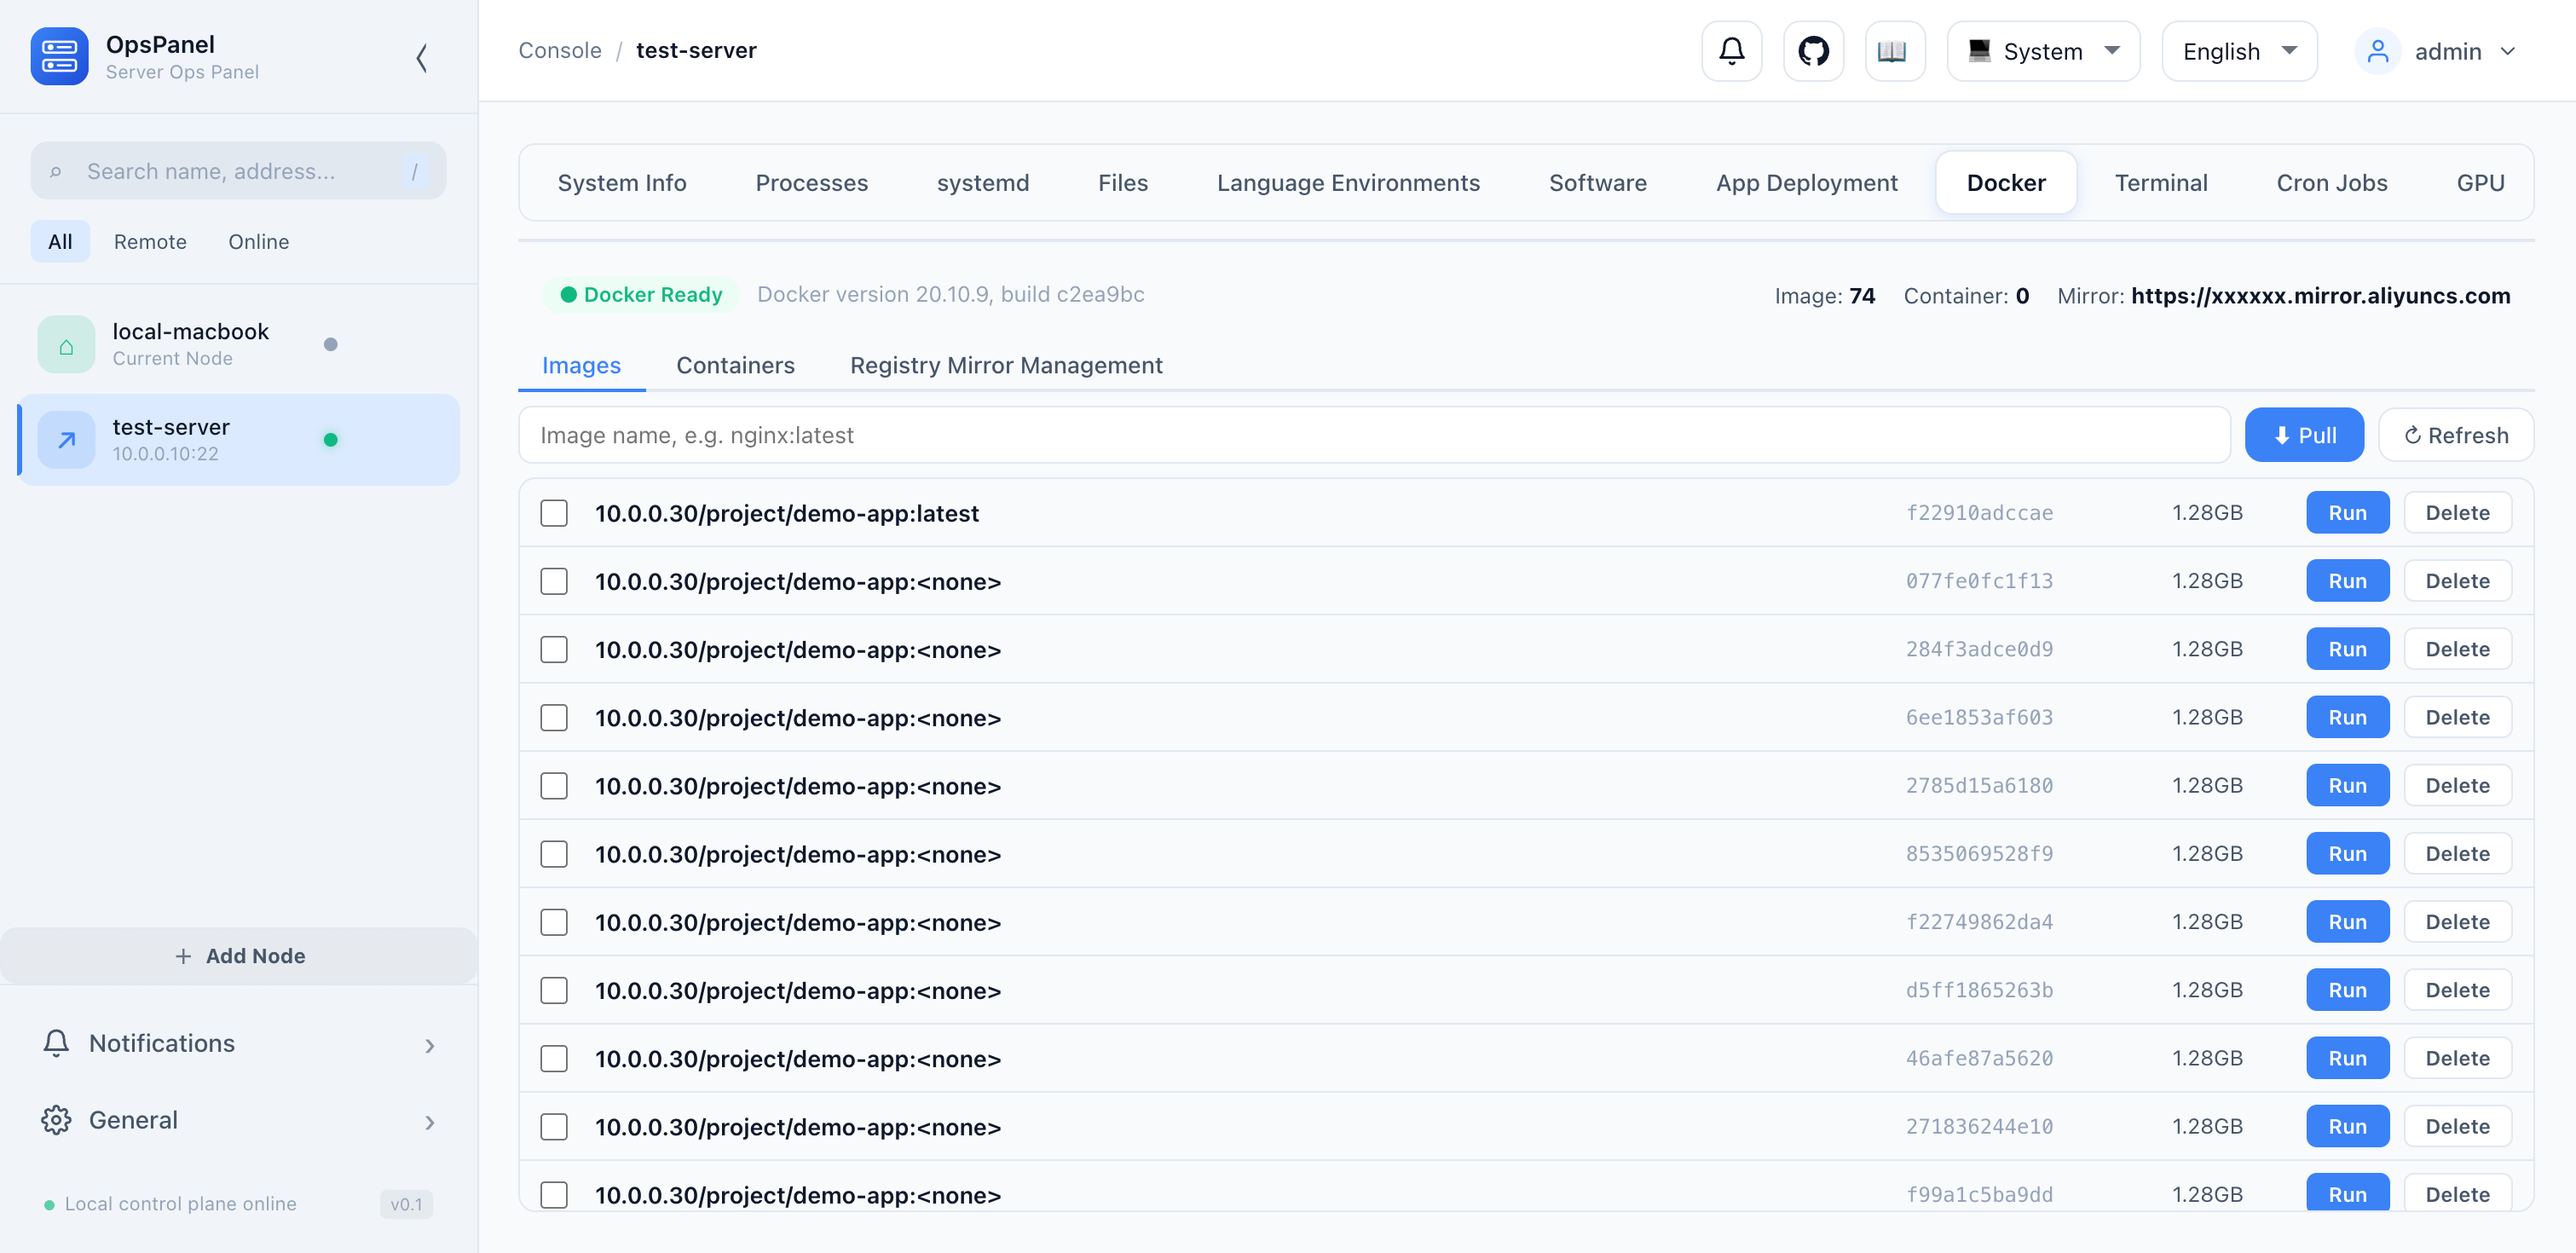
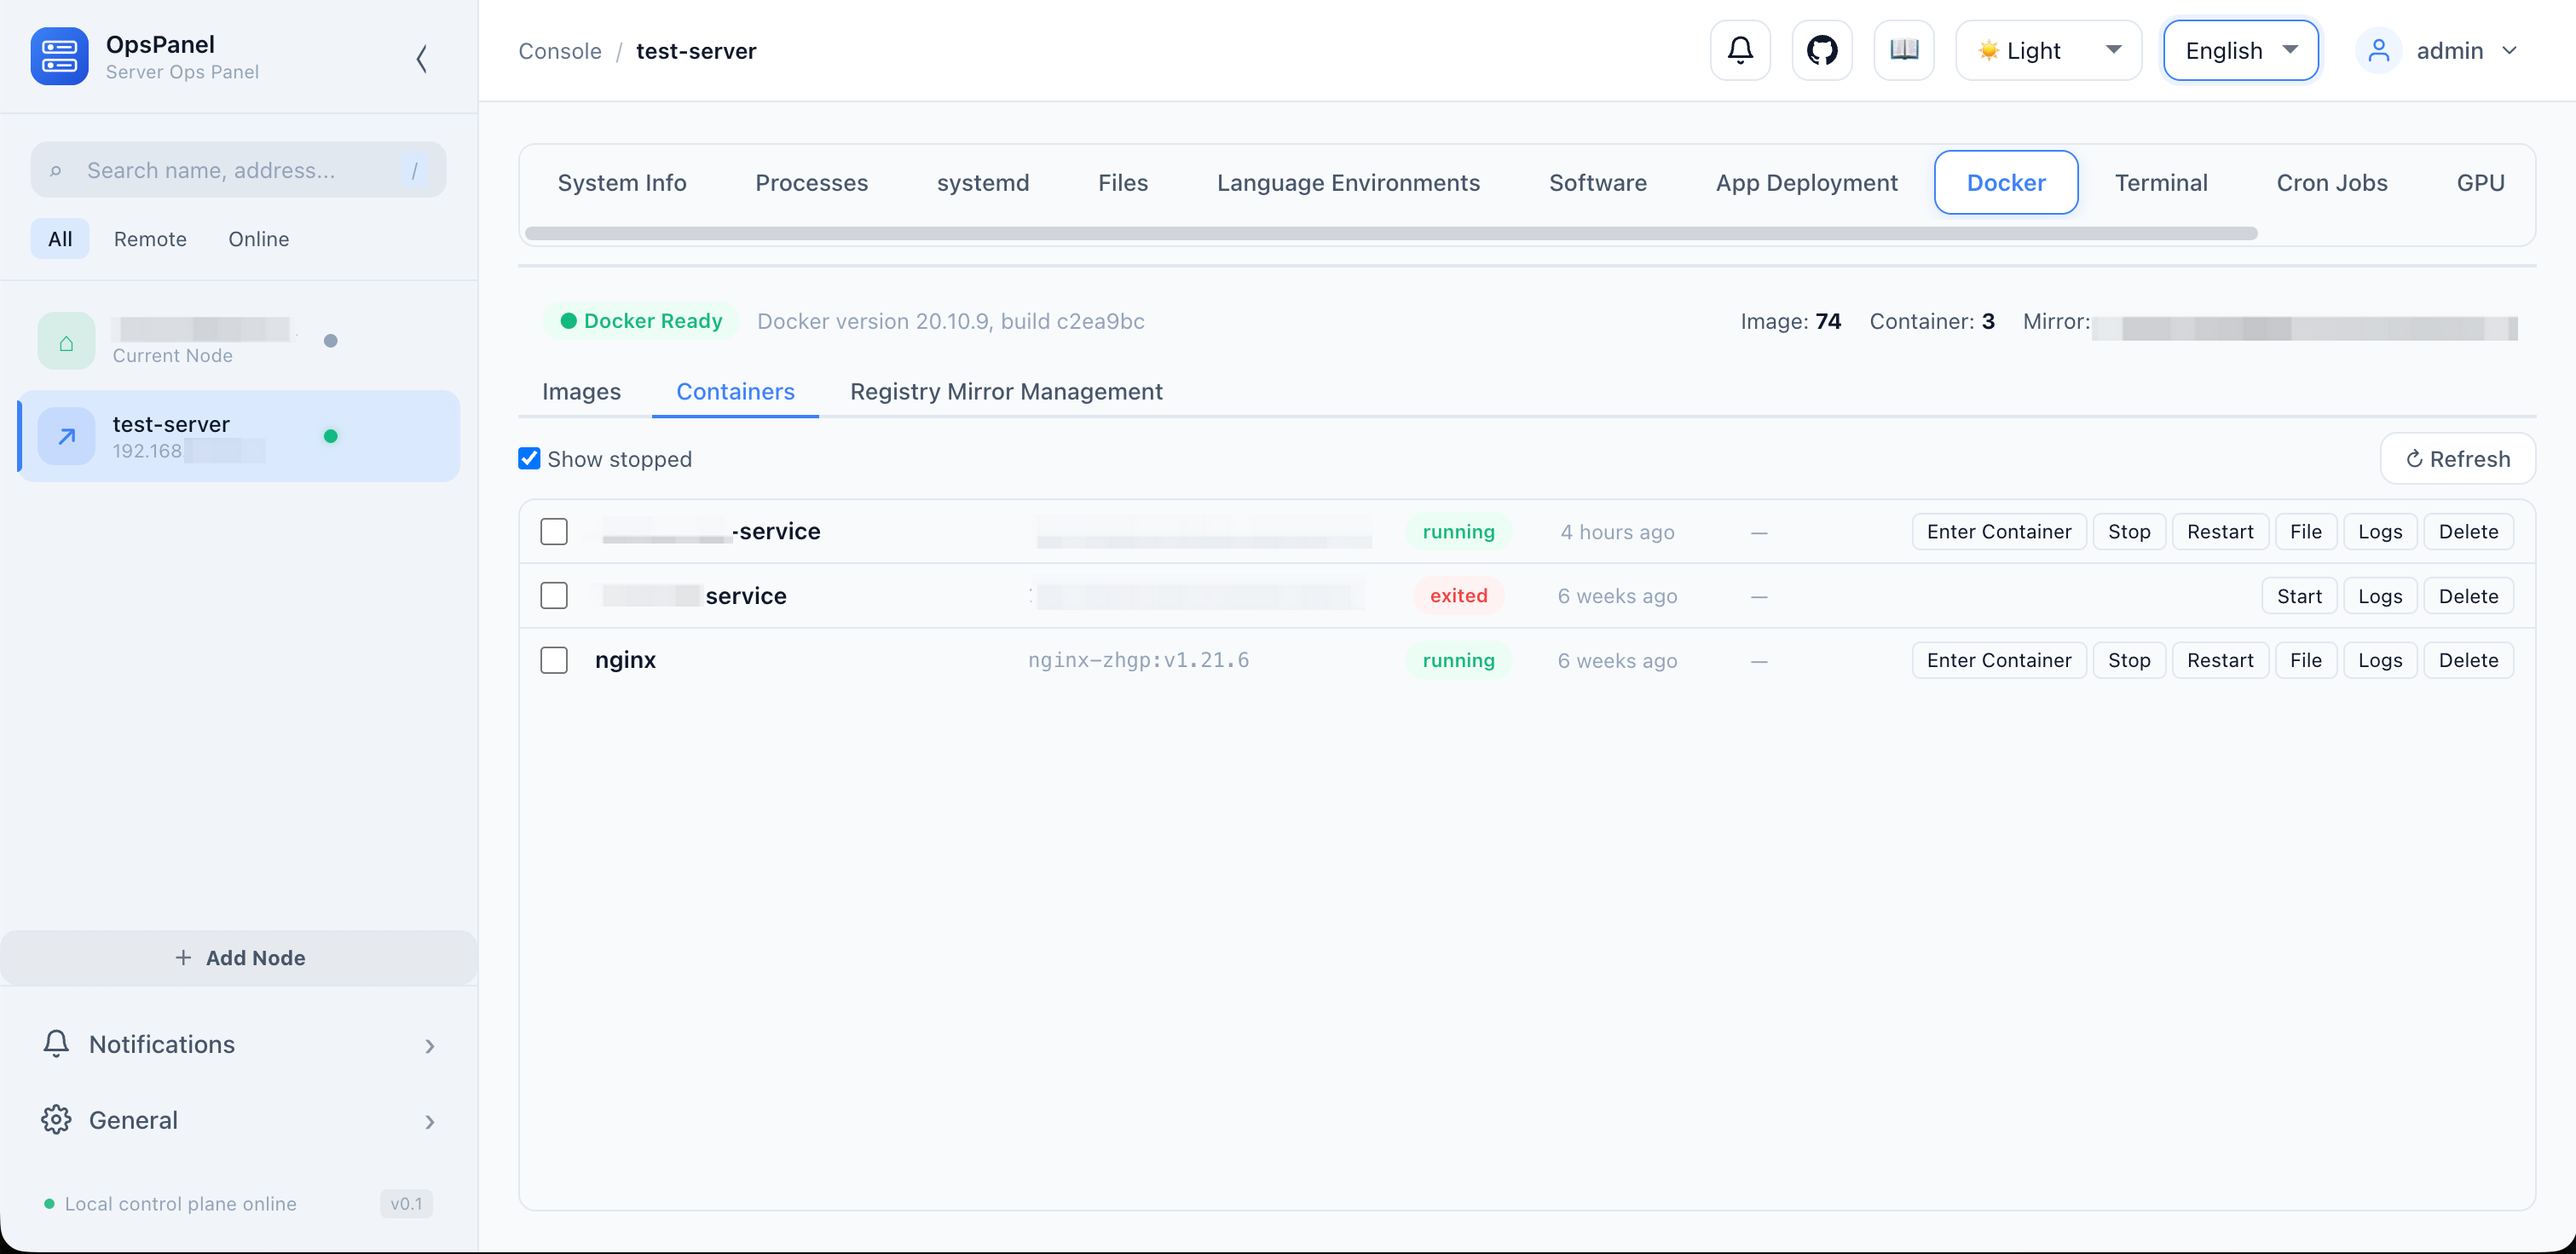
feat: 为 Docker 镜像和容器列表添加全选功能及样式优化

diff --git a/web/static/js/views/tabs/tab-docker.js b/web/static/js/views/tabs/tab-docker.js
@@ -26,8 +26,8 @@ export const TabDocker = {
                     <!-- 镜像管理 -->
                     <div v-if="dockerSubTab === 'images'" class="docker-sub-pane">
                         <div class="docker-toolbar">
-                            <input v-model="dockerPullInput" :placeholder="t('输入镜像名，如：nginx:latest')" @keyup.enter="dockerPullImage(dockerPullInput); dockerPullInput = ''">
-                            <button class="primary-button small" @click="dockerPullImage(dockerPullInput); dockerPullInput = ''">{{ t('⬇ 拉取') }}</button>
+                            <input v-model="dockerPullInput" :placeholder="t('输入镜像名，如：nginx:latest')" @keyup.enter="dockerPullImage()">
+                            <button class="primary-button small" @click="dockerPullImage()">{{ t('⬇ 拉取') }}</button>
                             <button class="toolbar-button" @click="loadDockerImages()" :disabled="dockerLoading">{{ t('↻ 刷新') }}</button>
                         </div>
                         <!-- 批量操作栏 -->
@@ -41,6 +41,13 @@ export const TabDocker = {
                             <span class="empty-icon">⌁</span><strong>{{ t('暂无镜像') }}</strong>
                         </div>
                         <div v-else class="docker-image-list">
+                            <div class="docker-list-header image">
+                                <input type="checkbox" class="batch-check" :checked="allImagesSelected" @change="toggleAllImages()" :title="t('全选')">
+                                <span>{{ t('名称') }}</span>
+                                <span>{{ t('ID') }}</span>
+                                <span class="docker-img-size">{{ t('大小') }}</span>
+                                <span class="docker-img-actions">{{ t('操作') }}</span>
+                            </div>
                             <div v-for="img in dockerImages" :key="img.id" class="docker-image-row" :class="{ selected: selectedImages.includes(img.id) }">
                                 <input type="checkbox" class="batch-check" :checked="selectedImages.includes(img.id)" @change="toggleImageSelection(img.id)">
                                 <span class="docker-img-repo">{{ img.repository }}:{{ img.tag }}</span>
@@ -75,6 +82,15 @@ export const TabDocker = {
                             <span class="empty-icon">⌁</span><strong>{{ t('暂无容器') }}</strong>
                         </div>
                         <div v-else class="docker-container-list">
+                            <div class="docker-list-header container">
+                                <input type="checkbox" class="batch-check" :checked="allContainersSelected" @change="toggleAllContainers()" :title="t('全选')">
+                                <span>{{ t('名称') }}</span>
+                                <span>{{ t('镜像') }}</span>
+                                <span class="docker-ctr-status">{{ t('状态') }}</span>
+                                <span class="docker-ctr-time">{{ t('运行时长') }}</span>
+                                <span class="docker-ctr-ports">{{ t('端口') }}</span>
+                                <span class="docker-ctr-actions">{{ t('操作') }}</span>
+                            </div>
                             <div v-for="c in dockerContainers" :key="c.id" class="docker-container-row" :class="{ selected: selectedContainers.includes(c.id) }">
                                 <input type="checkbox" class="batch-check" :checked="selectedContainers.includes(c.id)" @change="toggleContainerSelection(c.id)">
                                 <span class="docker-ctr-name">{{ c.names || c.id.substring(0, 12) }}</span>
@@ -104,7 +120,7 @@ export const TabDocker = {
                         </div>
                     </div>
                     <!-- 镜像源管理 -->
-                    <div v-if="dockerSubTab === 'mirror'" class="docker-sub-pane">
+                    <div v-if="dockerSubTab === 'mirror'" class="docker-sub-pane docker-sub-pane-scroll">
                         <!-- 服务器当前镜像源 -->
                         <div class="mirror-server-panel" v-if="selectedServer !== 'srv_local'">
                             <div class="mirror-section-header">

diff --git a/web/static/js/store/docker.js b/web/static/js/store/docker.js
@@ -16,7 +16,7 @@ import {
     batchDeleteDockerImages, batchDockerContainerAction,
 } from '../api/docker.js';
 
-const { ref, reactive } = window.Vue;
+const { ref, reactive, computed } = window.Vue;
 
 export function setupDocker(ctx) {
     // ─── Docker 管理 ───
@@ -104,10 +104,23 @@ export function setupDocker(ctx) {
         }
     }
 
-    async function dockerPullImage(image) {
+    // Docker 镜像 reference 格式：[host[:port]/]repo[/repo...][:tag][@digest]
+    const imageRefPattern = /^(?:(?:localhost|[a-zA-Z0-9](?:[a-zA-Z0-9-]*[a-zA-Z0-9])?(?:\.[a-zA-Z0-9](?:[a-zA-Z0-9-]*[a-zA-Z0-9])?)+)(?::\d{1,5})?\/)?[a-z0-9](?:[a-z0-9._-]*[a-z0-9])?(?:\/[a-z0-9](?:[a-z0-9._-]*[a-z0-9])?)*(?::[\w][\w.-]{0,127})?(?:@[A-Za-z][A-Za-z0-9]*(?:[-_+.][A-Za-z][A-Za-z0-9]*)*:[0-9a-fA-F]{32,})?$/;
+
+    async function dockerPullImage() {
         if (!ctx.selectedServer.value) return;
+        const image = dockerPullInput.value.trim();
+        if (!image) {
+            ctx.toastNotify(t('请输入镜像名'), true);
+            return;
+        }
+        if (!imageRefPattern.test(image)) {
+            ctx.toastNotify(t('镜像名格式不正确，如：nginx:latest'), true);
+            return;
+        }
         try {
             await pullDockerImage(ctx.selectedServer.value, image);
+            dockerPullInput.value = '';
             ctx.toastNotify(t('正在拉取镜像: ') + image);
             setTimeout(() => loadDockerImages(), 5000);
         } catch (err) {
@@ -311,6 +324,20 @@ export function setupDocker(ctx) {
         else selectedContainers.value.push(id);
     }
 
+    const allImagesSelected = computed(() =>
+        dockerImages.value.length > 0 && selectedImages.value.length === dockerImages.value.length);
+
+    function toggleAllImages() {
+        selectedImages.value = allImagesSelected.value ? [] : dockerImages.value.map(img => img.id);
+    }
+
+    const allContainersSelected = computed(() =>
+        dockerContainers.value.length > 0 && selectedContainers.value.length === dockerContainers.value.length);
+
+    function toggleAllContainers() {
+        selectedContainers.value = allContainersSelected.value ? [] : dockerContainers.value.map(c => c.id);
+    }
+
     async function batchDeleteImages() {
         if (!selectedImages.value.length) { ctx.toastNotify(t('请选择要删除的镜像'), true); return; }
         if (!await ctx.confirmDialog(t('确定删除选中的 {p1} 个镜像吗？', { p1: selectedImages.value.length }), { title: t('批量删除镜像'), confirmText: t('删除') })) return;
@@ -360,5 +387,6 @@ export function setupDocker(ctx) {
         dockerPullImage, dockerRemoveImage, dockerContainerAction,
         dockerRemoveContainer, dockerViewLogs,
         toggleImageSelection, toggleContainerSelection, batchDeleteImages, batchContainerAction,
+        allImagesSelected, toggleAllImages, allContainersSelected, toggleAllContainers,
     });
 }

diff --git a/web/static/css/components/docker.css b/web/static/css/components/docker.css
@@ -127,6 +127,42 @@
        这样各行（独立 grid）的列分割点始终一致 */
     overflow-x: auto;
     overflow-y: hidden;
+    /* 内滚容器滚动条细化，与 .content 一致 */
+    scrollbar-width: thin;
+    scrollbar-color: #d1d5db transparent;
+}
+
+.docker-image-list::-webkit-scrollbar,
+.docker-container-list::-webkit-scrollbar { width: 6px; height: 6px; }
+
+.docker-image-list::-webkit-scrollbar-thumb,
+.docker-container-list::-webkit-scrollbar-thumb { background: #d1d5db; border-radius: 3px; }
+
+/* 列表表头：与数据行共用同一 grid 模板，逐列对齐 */
+.docker-list-header {
+    display: grid;
+    align-items: center;
+    gap: 8px;
+    padding: 7px 12px;
+    background: var(--content-bg, #f8fafc);
+    font-size: 0.72rem;
+    font-weight: 600;
+    color: var(--text-muted, #64748b);
+    min-width: fit-content;
+}
+
+.docker-list-header.image {
+    grid-template-columns: 24px minmax(160px, 2fr) 110px 80px 150px;
+}
+
+.docker-list-header.container {
+    grid-template-columns: 24px minmax(140px, 2fr) minmax(200px, 1fr) 90px 80px 70px 400px;
+}
+
+/* 表头中复用的行内对齐类去掉装饰性 padding */
+.docker-list-header .docker-ctr-status {
+    padding: 0;
+    border-radius: 0;
 }
 
 .docker-image-row,
@@ -186,18 +222,21 @@
     gap: 8px;
 }
 
-/* 镜像行内中文操作按钮（部署 / 删除） */
+/* 镜像行内中文操作按钮（部署 / 删除）：ghost 风格，与容器行 .ctr-btn 同语言，
+   避免长列表中大量实心蓝按钮造成的视觉噪音 */
 .docker-row-btn {
-    padding: 4px 12px;
+    height: 24px;
+    padding: 0 10px;
     border-radius: 6px;
-    border: 1px solid var(--card-border, #cbd5e1);
-    background: var(--card-bg, #fff);
+    border: 1px solid var(--card-border, #e2e8f0);
+    background: transparent;
     color: var(--text-secondary, #475569);
     font-size: 0.75rem;
-    font-weight: 600;
+    font-weight: 500;
     cursor: pointer;
     white-space: nowrap;
     transition: all 0.15s;
+    line-height: 1;
 }
 
 .docker-row-btn:hover {
@@ -207,15 +246,7 @@
 }
 
 .docker-row-btn.primary {
-    border-color: var(--color-blue, #3b82f6);
-    background: var(--color-blue, #3b82f6);
-    color: #fff;
-}
-
-.docker-row-btn.primary:hover {
-    background: #2563eb;
-    border-color: #2563eb;
-    color: #fff;
+    color: var(--color-blue, #3b82f6);
 }
 
 .docker-row-btn.danger:hover {

diff --git a/web/static/css/components/layout.css b/web/static/css/components/layout.css
@@ -130,6 +130,12 @@
     overflow-y: auto;
 }
 
+/* 镜像源管理：多卡片堆叠，子页整体滚动，避免底部面板被裁剪 */
+.tab-scroll .docker-sub-pane.docker-sub-pane-scroll {
+    display: block;
+    overflow-y: auto;
+}
+
 /* ─── 空状态 ─── */
 .empty-state-view {
     display: flex;
